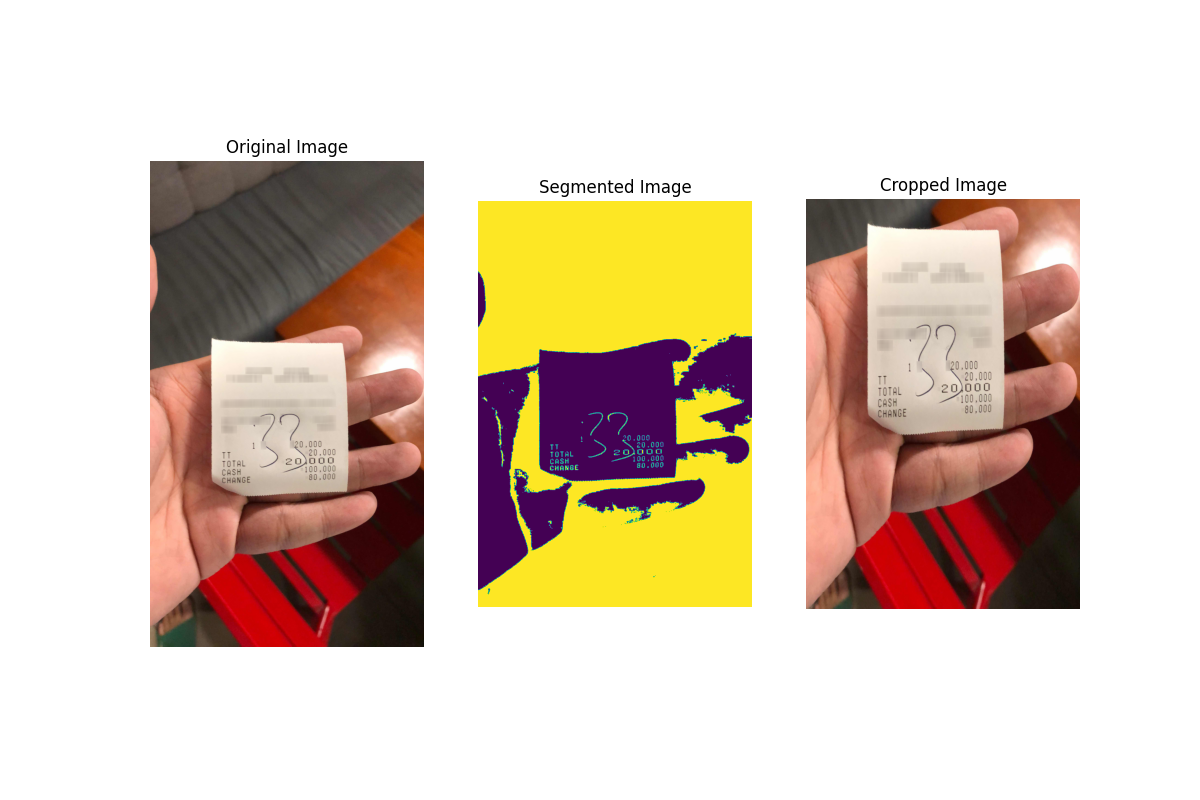
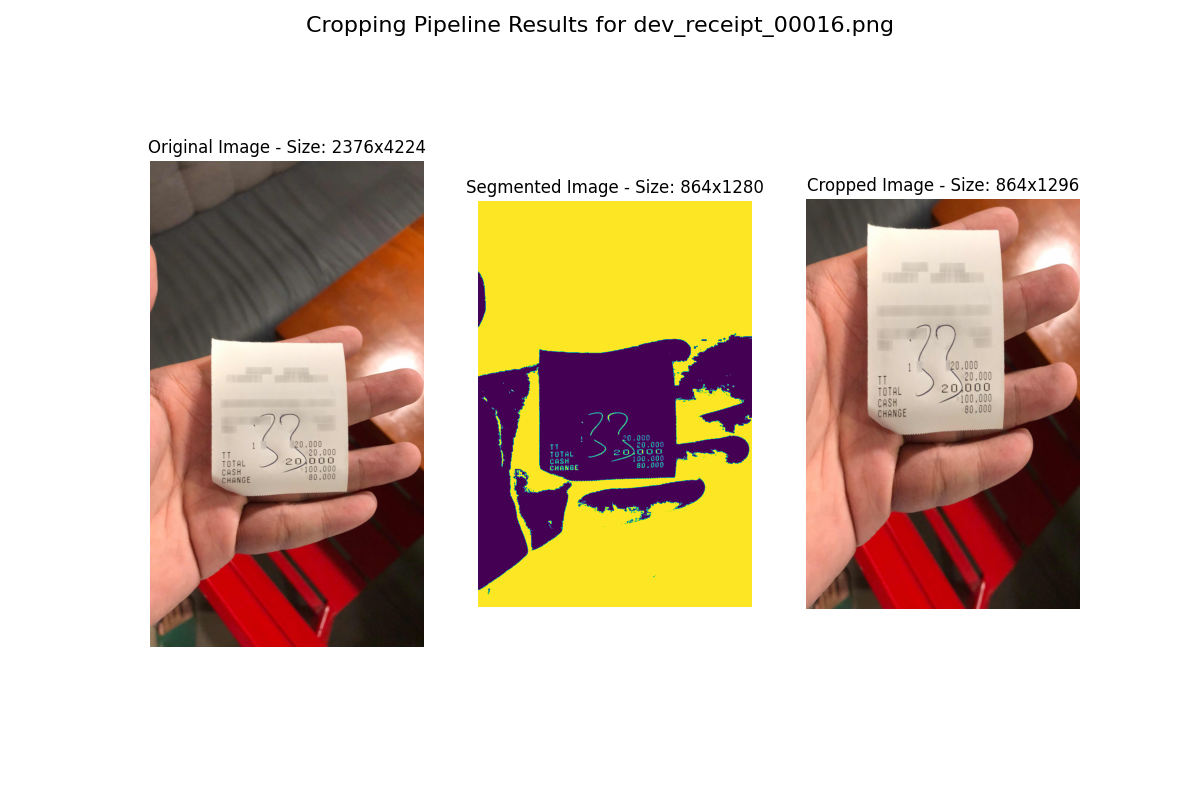
updated

diff --git a/src/preprocessing/utils.py b/src/preprocessing/utils.py
@@ -277,16 +277,17 @@ if __name__ == "__main__":
         original_image = cv2.imread(os.path.join(raw_images_dir, image_filename))
         plt.subplot(1, 3, 1)
         plt.imshow(cv2.cvtColor(original_image, cv2.COLOR_BGR2RGB))
-        plt.title("Original Image")
+        plt.title(f"Original Image - Size: {original_image.shape[1]}x{original_image.shape[0]}")
         plt.axis('off')
         plt.subplot(1, 3, 2)
         plt.imshow(segmented_image)
-        plt.title("Segmented Image")
+        plt.title(f"Segmented Image - Size: {segmented_image.shape[1]}x{segmented_image.shape[0]}")
         plt.axis('off')
         plt.subplot(1, 3, 3)
         plt.imshow(cv2.cvtColor(cropped_image, cv2.COLOR_BGR2RGB))
-        plt.title("Cropped Image")
+        plt.title(f"Cropped Image - Size: {cropped_image.shape[1]}x{cropped_image.shape[0]}")
         plt.axis('off')
+        plt.suptitle(f"Cropping Pipeline Results for {image_filename}", fontsize=16)
         plt.savefig(f"reports/figures/cropping_pipeline_{image_filename.replace('.png','')}.png")
         plt.show()
     
